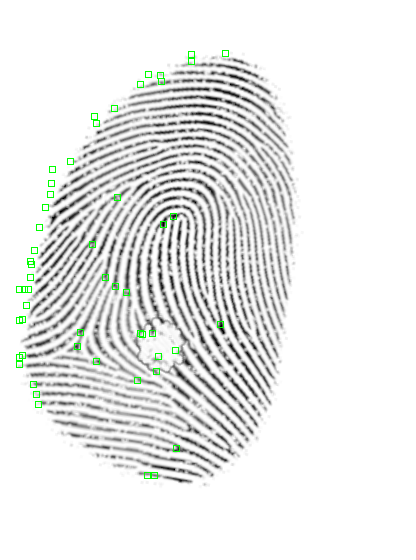
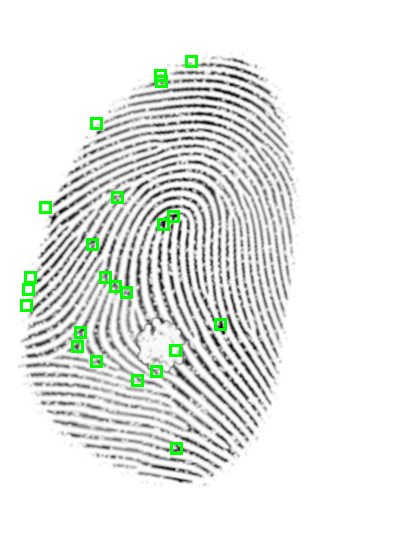
Update minutiae and singularity images in the text
Minutiae are now marked with bigger markers and are extracted by the
newer algorithms. Singularities are extracted by the new, correct
algorithms.

diff --git a/doc/projekt-01-kapitoly-chapters.tex b/doc/projekt-01-kapitoly-chapters.tex
@@ -1323,13 +1323,13 @@
   Normalizácia snímok singularít sa vykonáva vo funkcii \texttt{singularityCleanup}. Táto funkcia plní dva účely. V prvom rade nahrádza oblasti s veľkým
   množstvom singularít rovnakého typu oblasťou s jednou singularitou umiestnenou na priemernú pozíciu detegovaných singularít v tejto oblasti.
   V druhom rade odstraňuje singularity rôzneho typu, ak sa nachádzajú v rovnakej oblasti. Výsledná snímka s detegovanými jadrami je zobrazená na
-  obrázku~{\ref{obr:jadra}}, kde vyznačenie singularít prebehlo podobne ako pri markantoch pomocou funkcie \texttt{overlay}.
+  obrázku~{\ref{obr:singularity}}, kde vyznačenie singularít prebehlo podobne ako pri markantoch pomocou funkcie \texttt{overlay}.
 
   \begin{figure}[h]
     \centering
-    \includegraphics[width=0.3\linewidth]{obrazky-figures/cores.png}
+    \includegraphics[width=0.3\linewidth]{obrazky-figures/cores_deltas.png}
     \caption{Snímka odtlačku prsta s vyznačenými detegovanými jadrami.}
-    \label{obr:jadra}
+    \label{obr:singularity}
   \end{figure}
 
   Detekciu triedy odtlačku prsta vykonáva funkcia \texttt{getClass}. Táto funkcia je schopná rozlíšiť oblúk, klenutý oblúk, ľavú slučku, pravú slučku.
